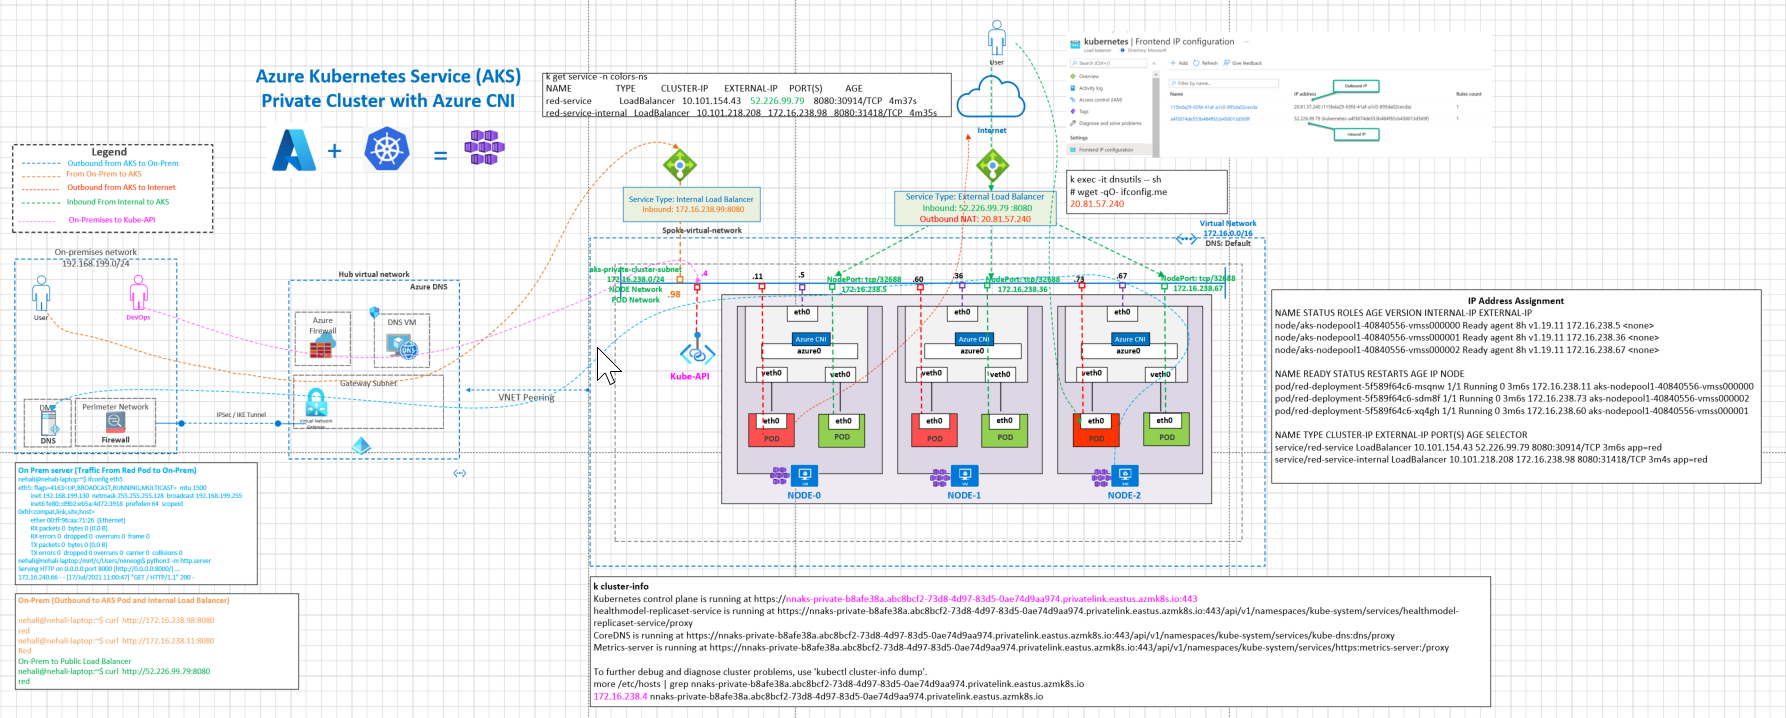
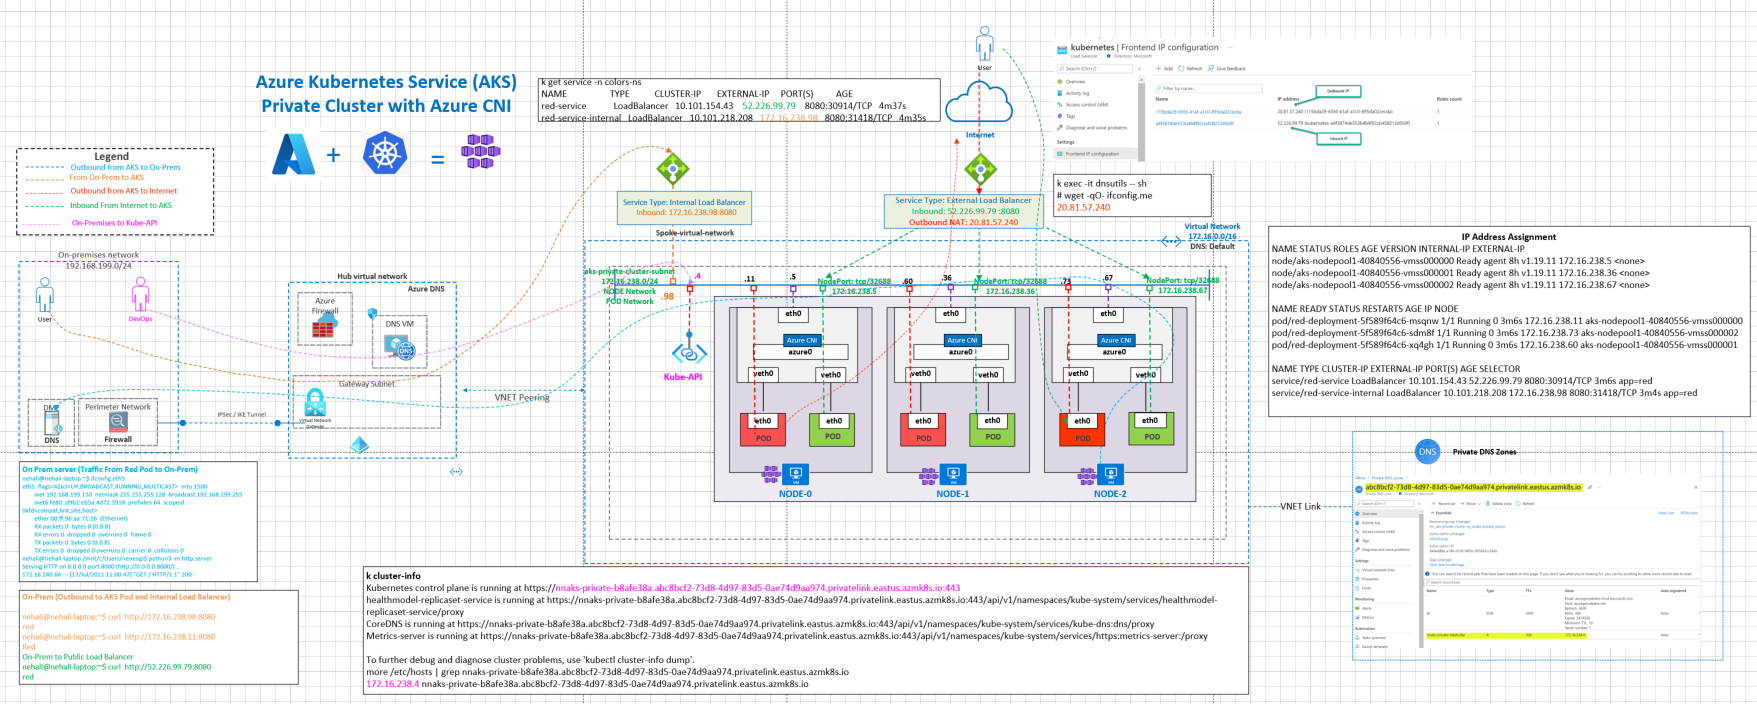
fix validations sections

diff --git a/aks/README-private-cluster.md b/aks/README-private-cluster.md
@@ -1,10 +1,10 @@
 ## Azure AKS Advanced/Azure CNI Networking
 
-This architecture demonstrates the connectivity architecture and traffic flows connecting Azure AKS Private Cluster environment with your on-premises environment.
+This architecture demonstrates the connectivity architecture and traffic flows for connecting Azure AKS Private Cluster environment with your on-premises environment. In the Private AKS cluster the control plane or the kube API server has an **internal IP address**. This IP is exposed via a private endpoint in the AKS subnet. The on-premises networks use the Private IP address of the Kube-API server hence both DNS and routing has to be in place between on-premises and AKS network..A private DNS zone is also created example - abcxyz.privatelink.<region>.azmk8s.io. AKS services exposed using internal load balancer. Egress paths from AKS cluster to Internet can be designed using External Load balancer (default) or using Azure Firewall/NVA/NAT gateway using userDefinedRouting setting in AKS
 
 ## Reference Architecture
 
-### Advanced/Azure CNI Networking
+#### This reference architecture uses Advanced/Azure CNI Networking
 
 ![AKS Advanced Networking](images/aks-private-cluster.png)
 
@@ -12,58 +12,77 @@ Download Visio link here.
 
 ## Azure Documentation links
 
-2. [Create Private Cluster](https://docs.microsoft.com/en-us/azure/aks/private-clusters)
-3. [AKS Private Cluster limitations](https://docs.microsoft.com/en-us/azure/aks/private-clusters#limitations)
-4. [External Load Balancer](https://docs.microsoft.com/en-us/azure/aks/load-balancer-standard)
-5. [Internal Load Balancer](https://docs.microsoft.com/en-us/azure/aks/internal-lb)
-6. [Configure Private DNS Zone](https://docs.microsoft.com/en-us/azure/aks/private-clusters#configure-private-dns-zone)
+1. [Create Private Cluster](https://docs.microsoft.com/en-us/azure/aks/private-clusters)
+2. [AKS Private Cluster limitations](https://docs.microsoft.com/en-us/azure/aks/private-clusters#limitations)
+3. [External Load Balancer](https://docs.microsoft.com/en-us/azure/aks/load-balancer-standard)
+4. [Internal Load Balancer](https://docs.microsoft.com/en-us/azure/aks/internal-lb)
+5. [Configure Private DNS Zone](https://docs.microsoft.com/en-us/azure/aks/private-clusters#configure-private-dns-zone)
+6. [Egress Path](https://docs.microsoft.com/en-us/azure/aks/egress-outboundtype#outbound-type-of-userdefinedrouting)
 
 ## Design Components and Planning
 
-1. [AKS Advanced Networking](https://docs.microsoft.com/en-us/azure/aks/concepts-network#azure-cni-advanced-networking)
-   The kubenet networking option is the default configuration for AKS cluster creation. With kubenet:
-
-With Azure CNI, a common issue is the assigned IP address range is too small to then add additional nodes when you scale or upgrade a cluster. The network team may also not be able to issue a large enough IP address range to support your expected application demands. 3. Node/Pod Limits 4. On-Prem routing 5. DNS Design 6. Inbound IP via Azure Load Balancer 7. Outbound IP via Azure load Balancer
-Unlike kubenet, traffic to endpoints in the same virtual network isn't NAT'd to the node's primary IP. The source address for traffic inside the virtual network is the pod IP. Traffic that's external to the virtual network still NATs to the node's primary IP.
-
-2. [IP Address Calculations](https://docs.microsoft.com/en-us/azure/aks/)
-   Azure CNI - that same basic /24 subnet range could only support a maximum of 8 nodes in the cluster
-   This node count could only support up to 240 pods (with a default maximum of 30 pods per node with Azure CNI)up to 27,610 pods (with a default maximum of 110 pods per node with kubenet)
-
-3. [External Load Balancer](https://docs.microsoft.com/en-us/azure/aks/load-balancer-standard)
-
-Creates an Azure load balancer resource, configures an external IP address, and connects the requested pods to the load balancer backend pool. To allow customers' traffic to reach the application, load balancing rules are created on the desired ports.
-
-Diagram showing Load Balancer traffic flow in an AKS cluster
-![AKS Basic Networking](images/aks-loadbalancer.png)
-
-4. [Internal Load Balancer](https://docs.microsoft.com/en-us/azure/aks/internal-lb)
-
-If you'd like to specify IP address the the [link here](https://docs.microsoft.com/en-us/azure/aks/internal-lb#specify-an-ip-address)
-If you would like to use a specific IP address with the internal load balancer, add the loadBalancerIP property to the load balancer YAML manifest. In this scenario, the specified IP address must reside in the same subnet as the AKS cluster and must not already be assigned to a resource. For example, you shouldn't use an IP address in the range designated for the Kubernetes subnet.
-
-Check the [Prerequisites](https://docs.microsoft.com/en-us/azure/aks/configure-azure-cni)
-The cluster identity used by the AKS cluster must have at least Network Contributor permissions on the subnet within your virtual network.
+1. Planning is required routing Kube API private endpoint from on-premises or from other Azure VNETs.
+2. Hybrid DNS setup with private DNS zones for DNS resolution from on-premises in Enterprise environments. However, local hosts files can be used in lab/POCs.
+3. **Ingress Considerations:** While, both Internal and External load balancers can be used to expose Ingress services however, in a truely private cluster only Internal load balancer is used for Ingress. External Load balancer is used for egress.
+4. **Egress Considerations**: Egress Path options via Azure External Load balancer or using Azure Firewall/NVA
 
 ## Design Validations
 
-1. Kube API Access
+##### Create AKS Private Cluster
 
-AKS Private DNS Zone get and Private endpoint gets created.
+```
+az aks create \
+ --resource-group $RG \
+ --name $AKSCLUSTER \
+ --node-count 3 \
+ --generate-ssh-keys \
+ --enable-private-cluster \
+ --enable-addons monitoring \
+ --dns-name-prefix $AKSDNS \
+ --network-plugin $PLUGIN \
+ --service-cidr 10.101.0.0/16 \
+ --dns-service-ip 10.101.0.10 \
+ --docker-bridge-address 172.20.0.1/16 \
+ --vnet-subnet-id $SUBNET_ID \
+ --assign-identity $USERIDENTITY_ID \
+ --attach-acr $MYACR \
+ --max-pods 30 \
+ --verbose
+
+```
+
+#### Kube API Access
+
+With the above command AKS Private DNS Zone and Private endpoint gets created.
 
 ![AKS Private DNS Zone](images/aks-private-dns-zone.png)
 
+#### On-Premises to Kube API server connectivity
+
+Note the kubeAPI / cluster IP resolves to privatelink.eastus.azmk8s.io (private endpoint IP)
+
+```
 k cluster-info
 Kubernetes control plane is running at https://nnaks-private-b8afe38a.abc8bcf2-73d8-4d97-83d5-0ae74d9aa974.privatelink.eastus.azmk8s.io:443
 healthmodel-replicaset-service is running at https://nnaks-private-b8afe38a.abc8bcf2-73d8-4d97-83d5-0ae74d9aa974.privatelink.eastus.azmk8s.io:443/api/v1/namespaces/kube-system/services/healthmodel-replicaset-service/proxy
 CoreDNS is running at https://nnaks-private-b8afe38a.abc8bcf2-73d8-4d97-83d5-0ae74d9aa974.privatelink.eastus.azmk8s.io:443/api/v1/namespaces/kube-system/services/kube-dns:dns/proxy
 Metrics-server is running at https://nnaks-private-b8afe38a.abc8bcf2-73d8-4d97-83d5-0ae74d9aa974.privatelink.eastus.azmk8s.io:443/api/v1/namespaces/kube-system/services/https:metrics-server:/proxy
+To further debug and diagnose cluster problems, use 'kubectl cluster-info dump'
 
+```
+
+Note that the KubeAPI DNS resolves to private IP and hence routing to the private IP needs to be configured. Best practice to use the hybrid On-premises DNS best practices for DNS resolution of private endpoint from on-premises. However, a local hosts file can be leverage for lab/POC.
+
+```
 To further debug and diagnose cluster problems, use 'kubectl cluster-info dump'.
 nehali@nehali-laptop:/mnt/c/Users/neneogi/Documents/repos/k8s/aks-azcli$ more /etc/hosts | grep nnaks-private-b8afe38a.abc8bcf2-73d8-4d97-83d5-0ae74d9aa974.privatelink.eastus.azmk8s.io
 172.16.238.4 nnaks-private-b8afe38a.abc8bcf2-73d8-4d97-83d5-0ae74d9aa974.privatelink.eastus.azmk8s.io
 
-2. IP Address Assignment
+```
+
+#### IP Address Assignment
+
+This deployment is using Azure CNI so the node and pod IPs are in the same subnet
 
 ```
 k get nodes,pods,service -o wide -n colors-ns
@@ -83,7 +102,9 @@ service/red-service-internal   LoadBalancer   10.101.218.208   172.16.238.98   8
 
 ```
 
-3. Node view
+#### Node view
+
+Note the Node inherits the DNS from VNET DNS setting and egress for the node via Azure External load balancer (NVA/Firewall options available)
 
 ```
  k get pods -o wide
@@ -154,7 +175,9 @@ root@aks-nodepool1-40840556-vmss000000:/# curl ifconfig.me
 
 ```
 
-6. POD View
+#### POD View
+
+Pod Inherits DNS from the Node and egress via external LB.
 
 ```
  k exec -it dnsutils -- sh
@@ -180,16 +203,12 @@ Destination     Gateway         Genmask         Flags Metric Ref    Use Iface
 search default.svc.cluster.local svc.cluster.local cluster.local 1grit5g0qs5exa0hhgg2i425ng.bx.internal.cloudapp.net
 nameserver 10.101.0.10
 options ndots:5
-/ # curl ifconfig.io
-sh: curl: not found
-/ # wget -qO- ifconfig.io
-wget: error getting response: Network unreachable
 / # wget -qO- ifconfig.me
 20.81.57.240
 
 ```
 
-7. Traffic from On-Premises to Azure
+#### Traffic validations from On-Premises to Azure
 
 ```
 
@@ -203,22 +222,22 @@ eth5: flags=4163<UP,BROADCAST,RUNNING,MULTICAST>  mtu 1500
         RX errors 0  dropped 0  overruns 0  frame 0
         TX packets 0  bytes 0 (0.0 B)
         TX errors 0  dropped 0 overruns 0  carrier 0  collisions 0
+
+Internal Load Balancer Service IP
 nehali@nehali-laptop:~$ curl  http://172.16.238.98:8080
 red
+
+Directly Hitting the POD IP:
 nehali@nehali-laptop:~$ curl  http://172.16.238.11:8080
 red
+
+Public IP Via External Load Balancer
 nehali@nehali-laptop:~$ curl  http://52.226.99.79:8080
 red
 
 
 ```
 
-## Tools and Traffic Flows
+#### TODO
 
-1. kubectl command refernce
-2. dnsutils pod (To run basic connectivity commands)
-3. ssh into AKS nodes
-
-```
-
-```
+1. Test Preview features (AKS run command)
